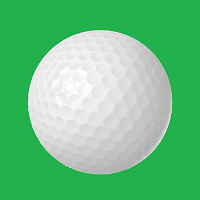
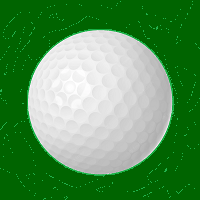
scrollbar color change

diff --git a/css/style.css b/css/style.css
@@ -280,7 +280,7 @@ body{
 /* Track */
 ::-webkit-scrollbar-track {
   border: 2px solid white;
-  background: #22B14C;
+  background: #006400;
   background-image: url(../images/golf\ hole\ 2.png);
   background-position: bottom;
   background-repeat: no-repeat;
